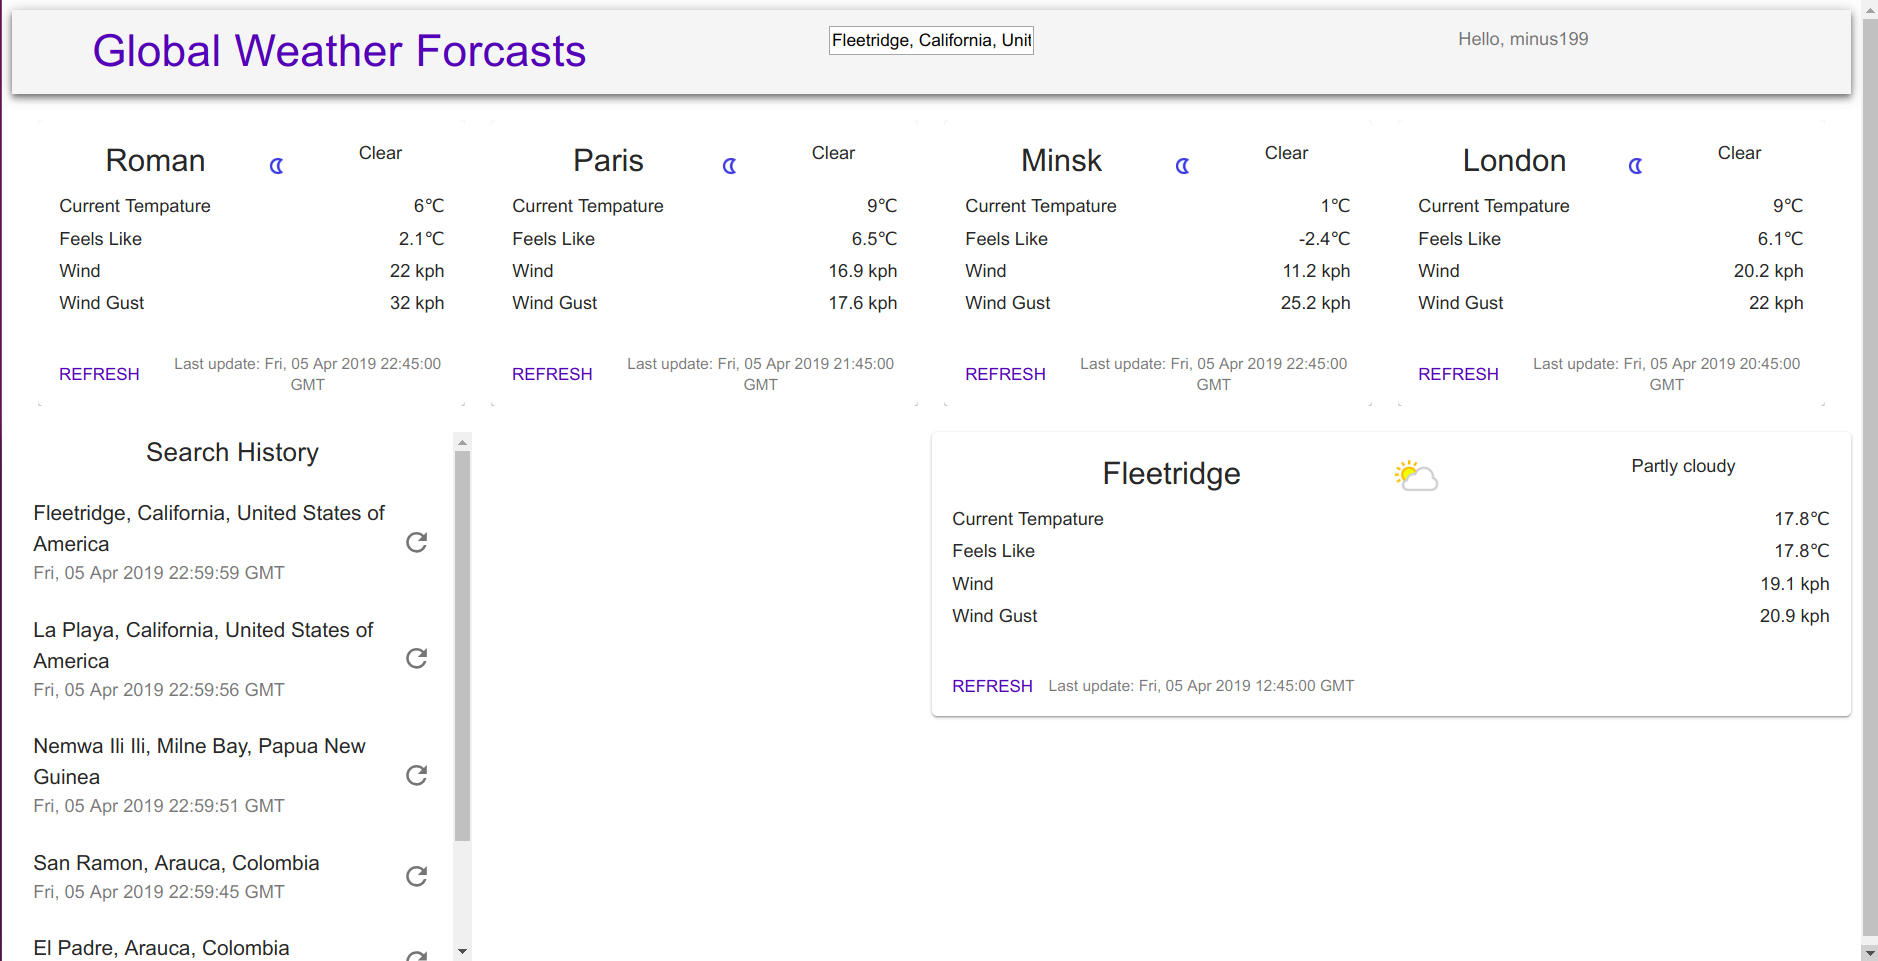
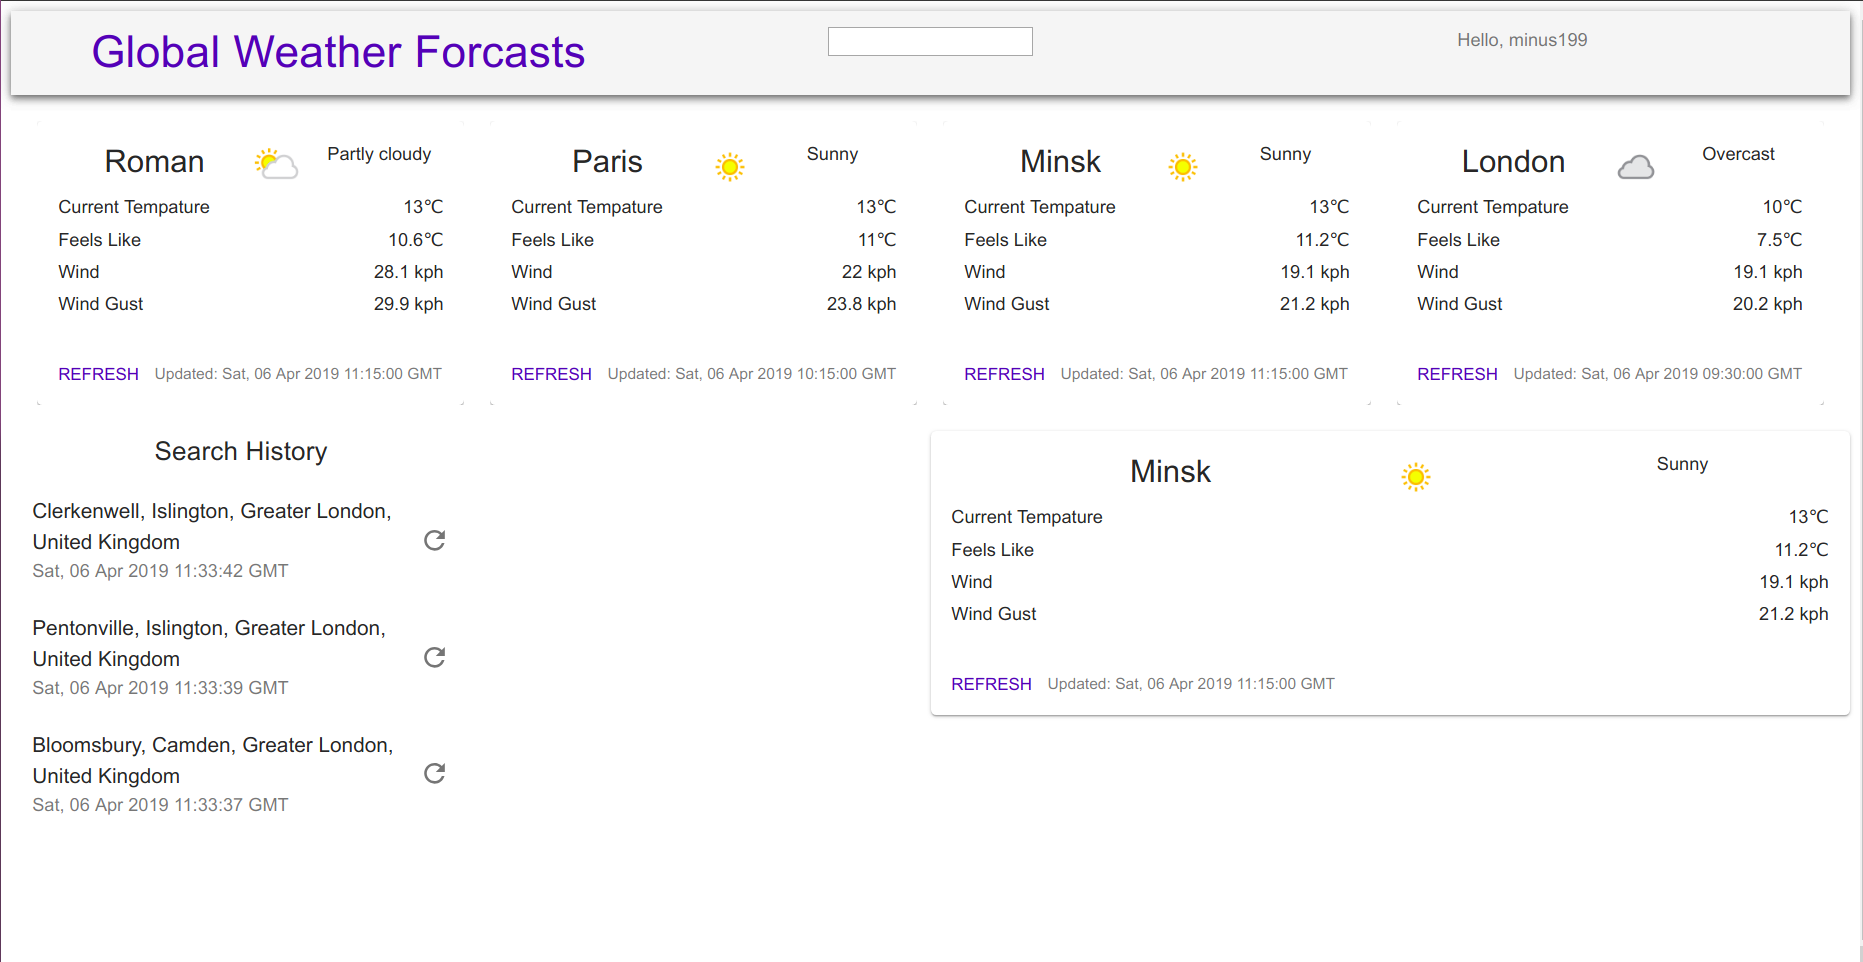
last touches

diff --git a/src/service/history-service.ts b/src/service/history-service.ts
@@ -1,25 +1,31 @@
 import { SearchState, SearchProps, UserProps, SearchHistoryItemProps } from "../entities/types";
 
+const afterSearchSelect = (currentCityName: string, searchState: SearchState, ...queries: SearchHistoryItemProps[]) => {
+  searchState.setSearchHistoryState(queries)
+
+  // fetch the weather of the searched city
+  fetch(`/api/cities/${currentCityName}/current?isSpotlight=${true}`)
+    .then(res => res.json()).then(x => {
+      searchState.setSpotlightCityData(x)
+    })
+}
+
 export const addHistoryHandler = (city: string, searchState: SearchState, searchProps: SearchProps, userState: UserProps) => {
   searchState.setSearchState(city)
-
   const searchQuery = { searchTerm: city, searchTime: new Date() }
 
+  // If user is logged in, nanage search results inmemory
   if (!userState.isLoggedIn) {
-    return searchState.setSearchHistoryState([searchQuery, ...searchProps.searchHistoryState])
+    return afterSearchSelect(city, searchState, searchQuery, ...searchProps.searchHistoryState)
   }
 
+  // If user is logged in, nanage search results on server
   fetch("/api/users/current/lastSearches", {
     method: "POST",
     body: JSON.stringify(searchQuery),
     headers: { "Content-Type": "application/json" }
   }).then(r => r.json()).then((history: SearchHistoryItemProps[]) => {
     const normalized = history.map(h => ({ searchTerm: h.searchTerm, searchTime: new Date(h.searchTime) }))
-    searchState.setSearchHistoryState(normalized)
-
-    fetch(`/api/cities/${city}/current?isSpotlight=${true}`)
-      .then(res => res.json()).then(x => {
-        searchState.setSpotlightCityData(x)
-      })
+    afterSearchSelect(city, searchState, ...normalized)
   })
 }

diff --git a/public/index.html b/public/index.html
@@ -8,34 +8,12 @@
       content="width=device-width, initial-scale=1, shrink-to-fit=no"
     />
     <meta name="theme-color" content="#000000" />
-    <!--
-      manifest.json provides metadata used when your web app is installed on a
-      user's mobile device or desktop. See https://developers.google.com/web/fundamentals/web-app-manifest/
-    -->
+   
     <link rel="manifest" href="%PUBLIC_URL%/manifest.json" />
-    <!--
-      Notice the use of %PUBLIC_URL% in the tags above.
-      It will be replaced with the URL of the `public` folder during the build.
-      Only files inside the `public` folder can be referenced from the HTML.
-
-      Unlike "/favicon.ico" or "favicon.ico", "%PUBLIC_URL%/favicon.ico" will
-      work correctly both with client-side routing and a non-root public URL.
-      Learn how to configure a non-root public URL by running `npm run build`.
-    -->
-    <title>React App</title>
+    <title>Optimove Weather</title>
   </head>
   <body>
     <noscript>You need to enable JavaScript to run this app.</noscript>
     <div id="root"></div>
-    <!--
-      This HTML file is a template.
-      If you open it directly in the browser, you will see an empty page.
-
-      You can add webfonts, meta tags, or analytics to this file.
-      The build step will place the bundled scripts into the <body> tag.
-
-      To begin the development, run `npm start` or `yarn start`.
-      To create a production bundle, use `npm run build` or `yarn build`.
-    -->
   </body>
 </html>

diff --git a/src/components/city/City.tsx b/src/components/city/City.tsx
@@ -14,7 +14,7 @@ const City = (props: WeatherResponse & { onNeedWeatherRefresh: (city: string, is
             {weather}
             <CardActions>
                 <Button size="small" color="primary" onClick={() => props.onNeedWeatherRefresh(props.location.name, !!props.isSpotlight)}>Refresh</Button>
-                <Typography variant="caption" color="textSecondary">Last update: {new Date(props.current ? props.current.last_updated : undefined).toUTCString()}</Typography>
+                <Typography variant="caption" color="textSecondary">Updated: {new Date(props.current ? props.current.last_updated : undefined).toUTCString()}</Typography>
             </CardActions>
         </Card>
     );

diff --git a/src/components/MainContent.tsx b/src/components/MainContent.tsx
@@ -17,14 +17,17 @@ function MainContent(props: MainContentProps) {
   const { topCitiesData, searchHistoryState, spotlightCityData, onNeedWeatherRefresh } = props
   return (
     <Grid container>
+      {/* The top list of cities */}
       <Grid item xs={12}>
         <Cities cities={topCitiesData} fetchWeatherHandler={onNeedWeatherRefresh} />
       </Grid>
 
+      {/* Search history */}
       <Grid item xs={6}>
         <SearchHistory history={searchHistoryState} onItemClick={onNeedWeatherRefresh} />
       </Grid>
 
+      {/* Selected city from search */}
       <Grid item xs={6}>
         <City {...{ onNeedWeatherRefresh, ...spotlightCityData }} />
       </Grid>

diff --git a/src/components/search/CitySearchSuggestion.tsx b/src/components/search/CitySearchSuggestion.tsx
@@ -1,4 +1,4 @@
-import React, { FormEvent } from 'react';
+import React from 'react';
 import parse from 'autosuggest-highlight/parse';
 import match from 'autosuggest-highlight/match';
 import MenuItem from '@material-ui/core/MenuItem';
@@ -24,8 +24,6 @@ export type SearchSuggestionTextFieldProps = Suggestion | TextFieldProps
  * @param suggestion 
  */
 function renderCitySuggestionItem(suggestion: Suggestion, { query, isHighlighted }: { query: string, isHighlighted: boolean }) {
-    console.log("@@@@", arguments);
-    
     const matches = match(suggestion.name, query);
     const parts = parse(suggestion.name, matches).map((part, index) =>
         part.highlight ?

diff --git a/src/components/search/SearchHistory.tsx b/src/components/search/SearchHistory.tsx
@@ -29,7 +29,7 @@ function SearchHistory(props: SearchHistoryProps) {
     const historyItems = props.history.map((item, idx: number) =>
         <SearchHistoryItem key={`search-history-${idx}`} {...item} onItemClick={props.onItemClick} />)
 
-    return (<Grid style={{ height: "55vh", overflow: "auto" }} item xs={12} md={6}>
+    return (<Grid style={{ height: "45vh", overflow: "auto" }} item xs={12} md={6}>
         <Typography variant="h6">Search History</Typography>
         <div><List>{historyItems}</List></div>
     </Grid>)
